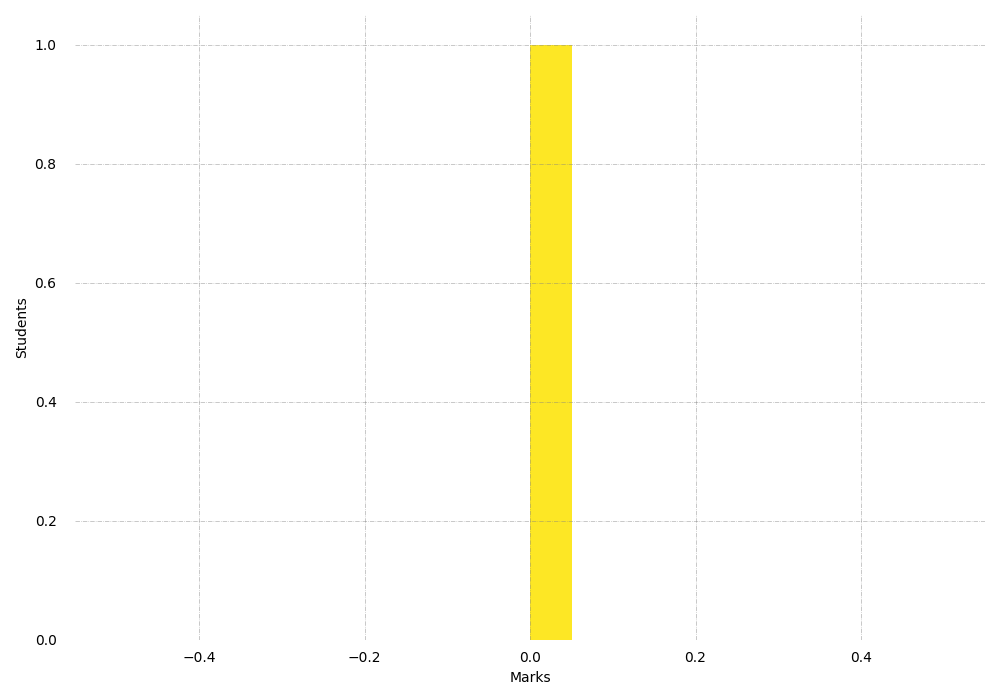
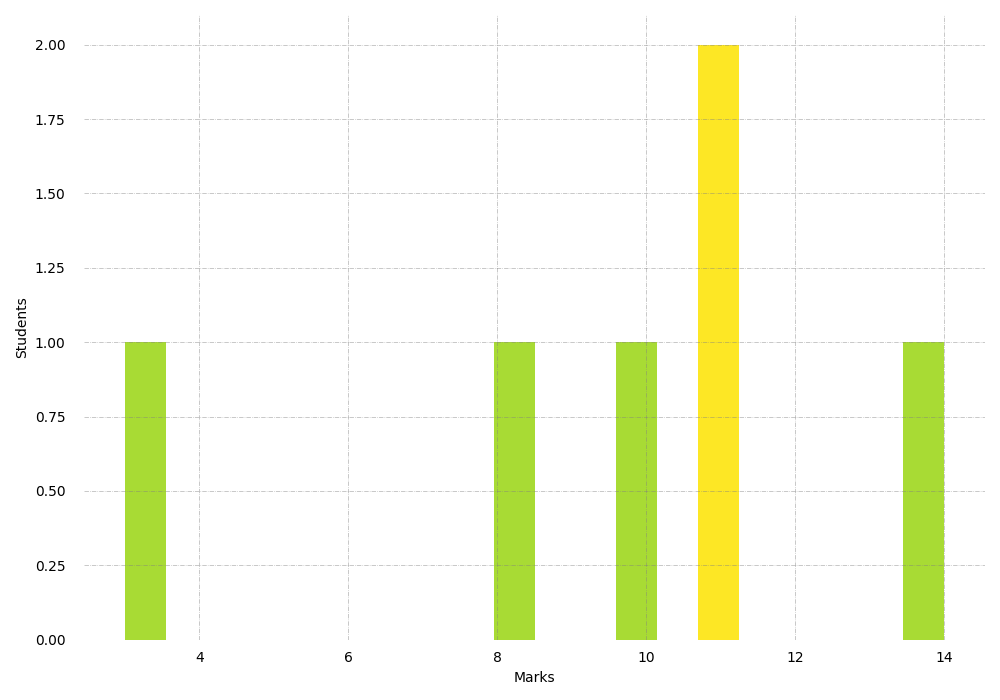
without cli

diff --git a/templates/studentGrades.html b/templates/studentGrades.html
@@ -1,0 +1,50 @@
+{% extends 'mainpage.html' %}
+{% load crispy_forms_tags %}
+
+{% block title %}Grades{% endblock %}
+
+{% block content %}
+<style>
+    table {
+      border-collapse: collapse;
+      width: 100%;
+    }
+    
+    td {
+      text-align: left;
+      padding: 8px;
+    }
+    
+    tr:nth-child(even) {background-color: #f2f2f2;}
+
+    tr:hover {background-color: #f2f2f2;}
+
+    th{
+        text-align: left;
+        padding: 8px;
+        background-color: #04AA6D;
+        color: white;
+    }
+</style>
+
+{% if user.is_authenticated and user == request.user %}
+<div id="main">
+    <h3>Grades</h3>
+    <center>
+        <table style="width:80%; ">
+          <tr><th>Course Name</th></tr>
+          {% for course in learner_courses %}
+          <tr>
+            <td><a href="{% url 'student_course_stats' name=course.name %}">{{ course.code }}: {{ course.name }}</a></td>
+          </tr>
+          {% endfor %}
+        </table>
+      </center>
+
+</div>
+{% else %}
+<div class="alert alert-danger" role="alert" style="margin-left: 20%; margin-top: 20px;">
+    Invalid Access Attempt!
+</div>
+{% endif %}
+{% endblock %}

diff --git a/templates/registerCourse.html b/templates/registerCourse.html
@@ -5,6 +5,13 @@
 {% block content %}
 {% if user.is_authenticated and user == request.user%}
 <div id="main">
+{% if messages %}
+<ul class="messages">
+    {% for message in messages %}
+    <li{% if message.tags %} class="{{ message.tags }}" {% endif %}> <h4 class="alert alert-warning" role="alert" style="width:30%; margin-top: 20px;">{{ message }} </h4></li>
+    {% endfor %}
+</ul>
+{% endif %}
 <div  style="background-color: lightgray; margin: auto; border: 3px solid gray; text-align: center; width:600px; padding:2%; position: fixed;">
 <form method="post">
 {% csrf_token %}

diff --git a/templates/mainpage.html b/templates/mainpage.html
@@ -31,6 +31,7 @@
                   <ul class="dropdown-menu" role="menu" aria-labelledby="imageDropdown">
                     <li role="button"><a href="{% url 'profile_page' username=request.user.username %}">Profile</a></li>
                     <li role="button"><a href="{% url 'dm_list' %}">Direct Messages</a></li>
+                    <li role="button"><a href="{% url 'student_grades' %}">Grades</a></li> 
                     <li role="button"><a href="{% url 'logout' %}">Logout</a></li>
                   </ul>
                 </div>

diff --git a/userprofile/views.py b/userprofile/views.py
@@ -107,20 +107,30 @@ def registerCourse(request):
     if request.method == 'POST':
         form = CourseRegistrationForm(request.POST)
         if form.is_valid():
-            newCourse = Course.objects.get(name=form.cleaned_data['Course_name'])
-            if newCourse.code==form.cleaned_data['Course_code'] :
-                newCourse.user.add(request.user)
-                if form.cleaned_data['Registration_code']==newCourse.regcode_student :  #/dhvanit
-                    CourseUserRelation.objects.create(user=request.user, course=newCourse, is_student = True)
-                    Privileges.objects.create(user=request.user, course=newCourse)
-                elif form.cleaned_data['Registration_code']==newCourse.regcode_TA :
-                    CourseUserRelation.objects.create(user=request.user, course=newCourse, is_TA = True)
-                    Privileges.objects.create(user=request.user, course=newCourse, can_grade=True, can_create_assignments=False, can_create_lectures=False)
+            try:
+                newCourse = Course.objects.get(name=form.cleaned_data['Course_name'])
+                if newCourse.code==form.cleaned_data['Course_code'] :
+                    newCourse.user.add(request.user)
+                    if form.cleaned_data['Registration_code']==newCourse.regcode_student :  #/dhvanit
+                        CourseUserRelation.objects.create(user=request.user, course=newCourse, is_student = True)
+                        Privileges.objects.create(user=request.user, course=newCourse)
+                    elif form.cleaned_data['Registration_code']==newCourse.regcode_TA :
+                        CourseUserRelation.objects.create(user=request.user, course=newCourse, is_TA = True)
+                        Privileges.objects.create(user=request.user, course=newCourse, can_grade=True, can_create_assignments=False, can_create_lectures=False)
+                    else:
+                        try:
+                            if CourseUserRelation.objects.filter(user=request.user).get(course=newCourse).is_teacher:
+                                messages.warning(request,"You Cant Register In Your Own Course ,My Boi")
+                                return redirect(reverse('register_course'))
+                        except CourseUserRelation.DoesNotExist: 
+                            messages.warning(request,"Invalid Registration Code")
+                            return redirect(reverse('register_course'))
                 else:
+                    messages.warning(request,"Invalid Course Code")
                     return redirect(reverse('register_course'))
-            else:
+            except Course.DoesNotExist:
+                messages.warning(request,'Incorrect Course Name')
                 return redirect(reverse('register_course'))
-            return redirect(reverse('main_page'))
         else:
             return redirect(reverse('register_course'))
     else:
@@ -363,7 +373,7 @@ def CsvFeedbackView(request,name,id):
                         if User.objects.filter(username=row[0]).exists():
                             student=User.objects.get(username=row[0])
                             solution = Solutions.objects.filter(student=student,assignment=assignment)
-                            if Solutionfeedback.objects.filter(solution=solution[0]).exists:
+                            if Solutionfeedback.objects.filter(solution=solution[0]).exists():
                                 ######
                                 solution_feedback_object = Solutionfeedback.objects.get(solution=solution[0])
                                 solution_feedback_object.feedback=",".join(row[1:-1])
@@ -571,3 +581,11 @@ def seeDMlist(request):
         'messaged_users':messaged_users
     }
     return render(request, 'dmList.html',args)
+
+def studentGradesPage(request):
+    reg_courses=Course.objects.filter(user=request.user)
+    learner_courses=[]
+    for course in reg_courses:
+        if CourseUserRelation.objects.filter(course=course).get(user=request.user).is_student:
+            learner_courses.append(course)
+    return render(request,'studentGrades.html',{'learner_courses':learner_courses})

diff --git a/userprofile/aggregates.py b/userprofile/aggregates.py
@@ -59,7 +59,7 @@ def CalculateCourseMarksStudent(learner_course,user):
             student_assignmentwise_stats.append([assignment,0.0,0.0])
         max_marks+=assignment.max_marks
         max_percentage+=assignment.course_weightage
-    return student_assignmentwise_stats,total_marks,percentage_score,max_marks,max_percentage
+    return student_assignmentwise_stats,round(total_marks,2),round(percentage_score,2),round(max_marks,2),round(max_percentage,2)
 
 
 def GenerateTeacherStatsAssignment(course,assignment):
@@ -88,7 +88,7 @@ def GenerateTeacherStatsAssignment(course,assignment):
     plt.clf()
     plt.cla()
     GenerateHistogram(marks_array,"Marks","Students",hist_url,None,assignment)
-    return mean,variance,scatter_url,hist_url
+    return round(mean,2),round(variance,2),scatter_url,hist_url
 
 
 def GenerateHistogram(array,x_label,y_label,url,course,assignment):
@@ -140,7 +140,10 @@ def GenerateTeacherStatsCourse(teacher_course):
     percent_histogram_url=os.path.join(base_dir,f'static/histograms/{teacher_course.name}_percentage.png')
     GenerateHistogram(np.array(total_score_list),"Marks","Students",score_histogram_url,teacher_course,None)
     GenerateHistogram(np.array(percent_score_list),"Weighted Score","Students",percent_histogram_url,teacher_course,None)
-    return all_students,total_score_list,percent_score_list,score_histogram_url,percent_histogram_url,stats,max_marks,max_percentage
+    total_score_list=[round(elem,2) for elem in total_score_list]
+    percent_score_list=[round(elem,2) for elem in percent_score_list]
+    stats = [round(elem,2) for elem in stats]
+    return all_students,total_score_list,percent_score_list,score_histogram_url,percent_histogram_url,stats,round(max_marks,2),round(max_percentage,2)
 
 
 def GetCourseLearners(teacher_course):
@@ -194,5 +197,6 @@ def ToDoListTeacher(user):
                         Solutionfeedback.objects.get(solution=solution)
                     except Solutionfeedback.DoesNotExist:
                         unchecked_assignments.append(assignment)
+                        break
             course_assignments.append([course,unchecked_assignments])
         return [True,course_assignments]

diff --git a/userprofile/urls.py b/userprofile/urls.py
@@ -10,6 +10,7 @@ urlpatterns = [
     path('courses/add_new_course/',views.addCourse,name='add_course'),
     path('courses/register/',views.registerCourse,name='register_course'),
     path('users/direct_message/',views.seeDMlist,name='dm_list'),    #dhvanit
+    path('users/learner_courses/',views.studentGradesPage,name='student_grades'),
     path('users/<str:username>/',views.profilePage,name='profile_page'),
     path('courses/<str:name>/add_new_assignment/',views.addAssign,name='add_assign'),
     path('courses/<str:name>/assignment/<int:id>/',views.viewAssign,name='view_assign'),
